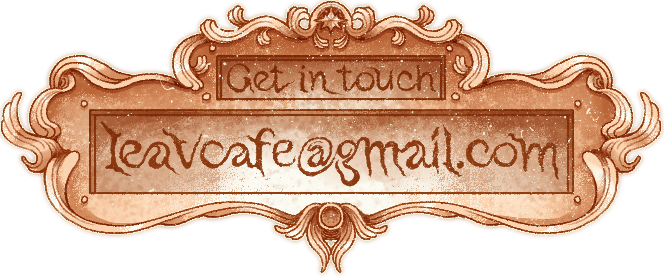
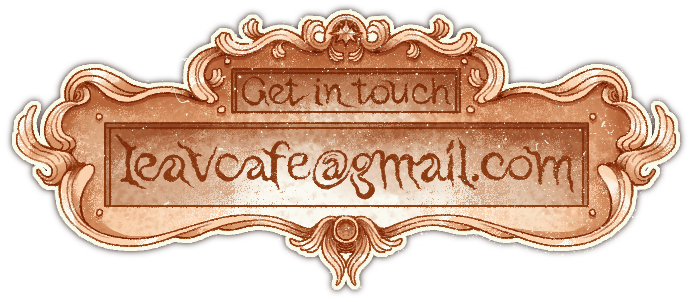
Se agregan sombras, titulos y alt

diff --git a/src/scss/gallery.scss b/src/scss/gallery.scss
@@ -45,6 +45,9 @@
             position: relative;
             cursor: pointer;
             display: block;
+            box-shadow: 0 0 8px black;
+            border: 3px #f6f4e4 solid;
+            border-radius: 4px;
 
             .thumbnail-overlay {
                 transition: all 0.3s;

diff --git a/src/scss/contact.scss b/src/scss/contact.scss
@@ -26,7 +26,7 @@
     .link-button {
         display: inline-block;
         transform: scale(0.95);
-        transition: all 0.5s cubic-bezier(0.18, 0.89, 0.32, 1.28);
+        transition: all 0.5s cubic-bezier(0.18, 0.89, 0.32, 1.15);
 
         &:hover {
             transform: scale(1)
